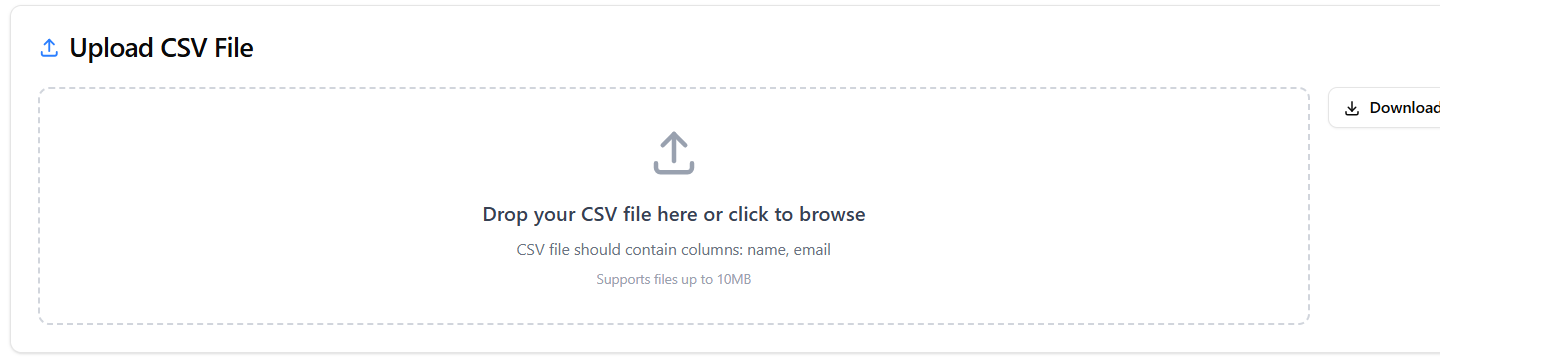
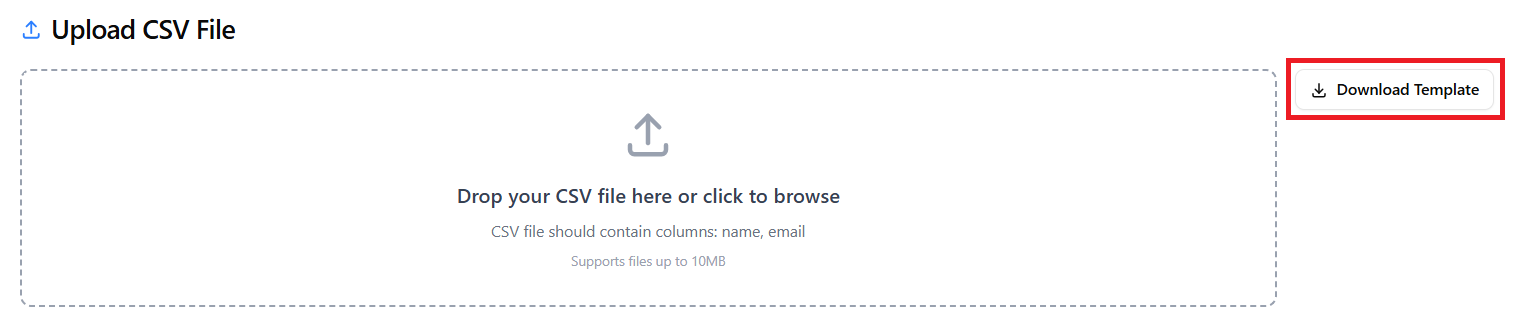
Add more instructions

diff --git a/source/user_management/uploading_users.rst b/source/user_management/uploading_users.rst
@@ -1,12 +1,19 @@
 Upload users 
 ============
 
-To upload your list of users, go to **Users** and click the **Upload (up arrow)** icon.
+1) Navigate to **Users** and click **Download Template**.
 
-.. important::
-    The users must be uploaded in the format specified in the downloaded template.
+    .. image:: ./images/download_template.png
+       :alt: Download template for uploading users
+       :width: 100%
 
-.. image:: ./images/upload_csv_file.png
-   :alt: Upload users
-   :width: 100%
-   :align: left
+2) Populate the template with your students' details.
+
+3) To upload your list of users, go to **Users** and click the **Upload (up arrow)** icon.
+
+    .. important::
+        The users must be uploaded in the format specified in the downloaded template.
+
+    .. image:: ./images/upload_csv_file.png
+       :alt: Upload users
+       :width: 100%

diff --git a/source/getting_started/creating_account.rst b/source/getting_started/creating_account.rst
@@ -1,19 +1,20 @@
 Create an account
 =================
 
-To create an account on Labiteers, supply the following details:
+1) Navigate to the signup page.
+
+   .. image:: ./images/create_account.png
+      :alt: Create VM menu
+      :width: 60%
+
+2) Fill in the required fields by supplying the following details:
 
 - Your full name
 - Your email address
 - Your password
 - Your card number
 
-.. image:: ./images/create_account.png
-   :alt: Create VM menu
-   :width: 60%
-   :align: left
-
-
+3) Click **Create Account**.
 
 .. note::
 
